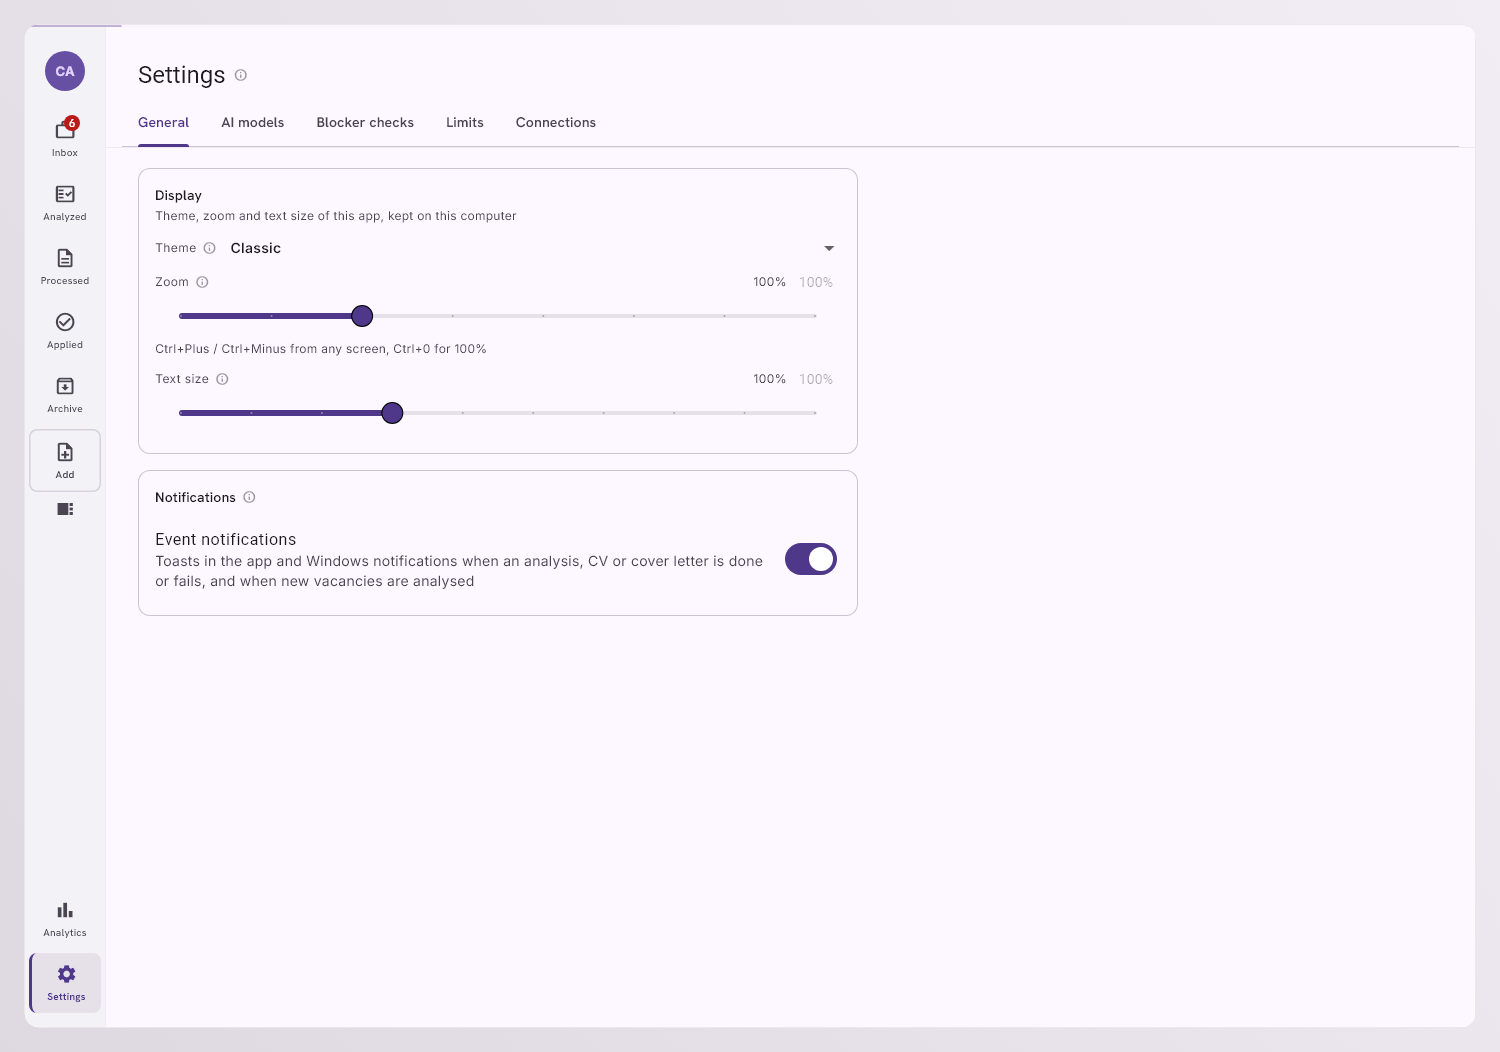
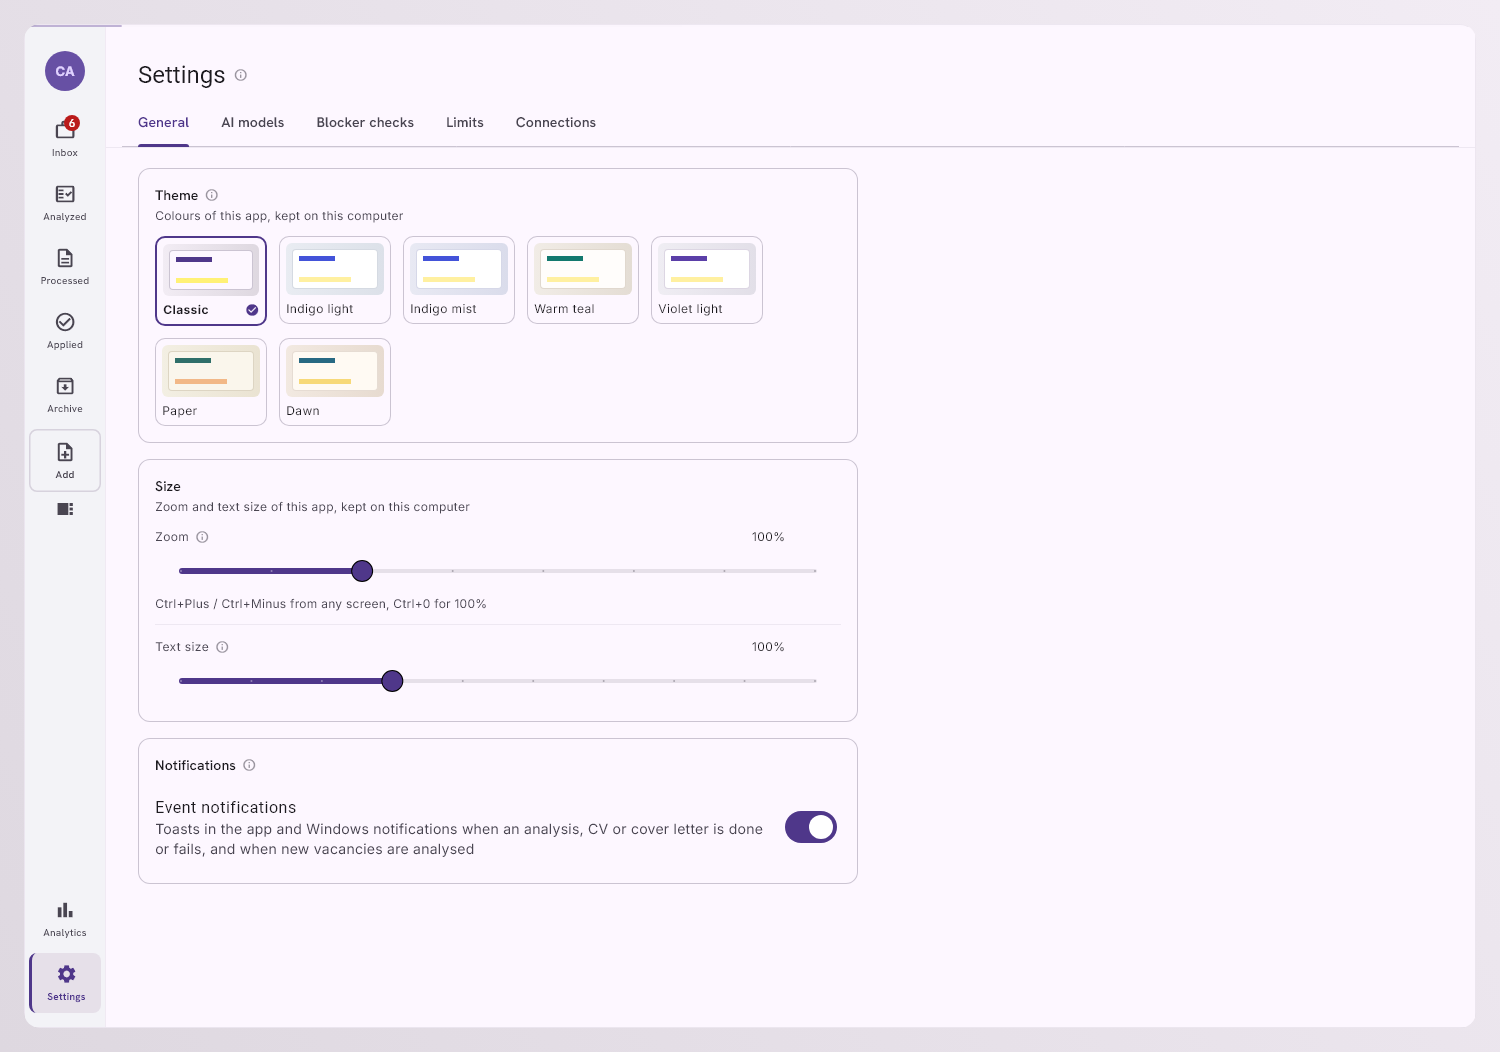
feat(site): new Settings General screenshot with theme swatches

diff --git a/career-agent.html b/career-agent.html
@@ -535,7 +535,7 @@
         { src: 'asset/screens/03-analysis.png', cap: 'Full analysis: fit, North Star, role balance and the recommendation.' },
         { src: 'asset/screens/04-requirements.png', cap: 'Why apply, why not apply, key barriers and hidden risks.' },
         { src: 'asset/screens/05-cv.png', cap: 'A tailored CV built from the verified profile (contact line hidden).' },
-        { src: 'asset/screens/06-settings-general.png', cap: 'Settings, General: display and notifications (sample data).' },
+        { src: 'asset/screens/06-settings-general.png', cap: 'Settings, General: a choice of colour themes, zoom and text size, notifications (sample data).' },
         { src: 'asset/screens/07-settings-ai-models.png', cap: 'Settings, AI models: provider, model and thinking effort chosen per phase (sample data).' },
         { src: 'asset/screens/08-settings-connections.png', cap: 'Settings, Connections: backend address and one-click connection to Claude Desktop (sample data).' }
       ];
